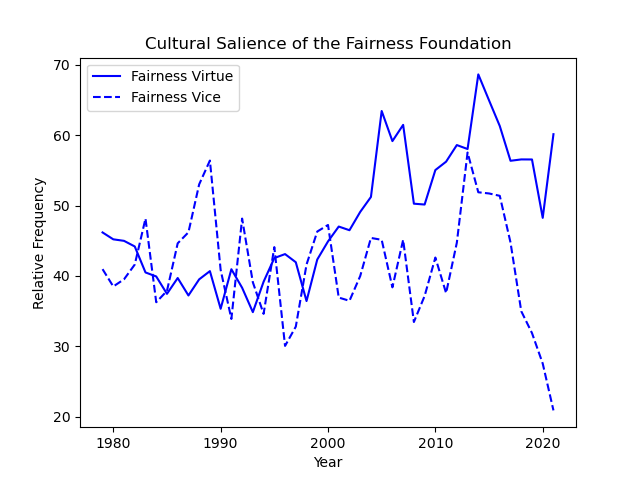
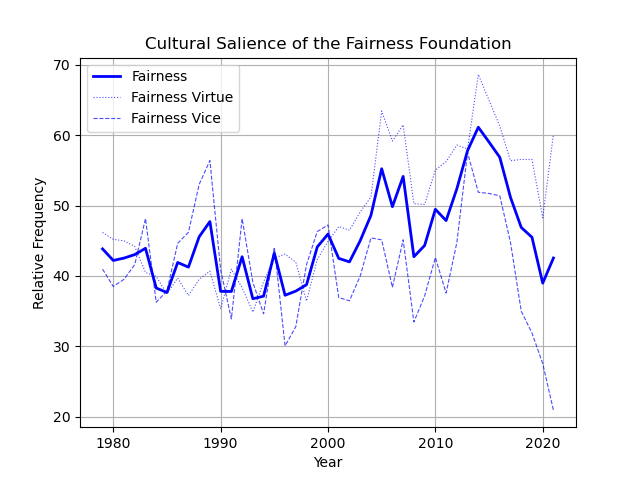
Amended plots for MFD cultural salience

diff --git a/1_code/plot_relativefreq_mfd_virvic.py b/1_code/plot_relativefreq_mfd_virvic.py
@@ -1,7 +1,8 @@
 import pandas as pd
 import matplotlib.pyplot as plt
 
-data = pd.read_csv('/Users/kawaiyuen/nlpworkshop/concept-creep-chi/2_pipeline/tmp/relativefreq_mfd_virvic.csv')
+data_virvic = pd.read_csv('/Users/kawaiyuen/nlpworkshop/concept-creep-chi/2_pipeline/tmp/relativefreq_mfd_virvic.csv')
+data_combined = pd.read_csv('/Users/kawaiyuen/nlpworkshop/concept-creep-chi/2_pipeline/tmp/relativefreq_mfd.csv')
 
 foundations = ['Harm', 'Fairness', 'Ingroup', 'Authority', 'Purity']
 colors = ['red', 'blue', 'green', 'orange', 'purple']
@@ -9,12 +10,14 @@ colors = ['red', 'blue', 'green', 'orange', 'purple']
 for foundation, color in zip(foundations, colors):
     virtue_column = f'{foundation}_virtue'
     vice_column = f'{foundation}_vice'
-    plt.plot(data['Year'], data[virtue_column], color=color, label=f'{foundation} Virtue')
-    plt.plot(data['Year'], data[vice_column], color=color, linestyle='dashed', label=f'{foundation} Vice')
+    plt.plot(data_combined['Year'], data_combined[foundation], color=color, linestyle='solid', linewidth=2, label=foundation)
+    plt.plot(data_virvic['Year'], data_virvic[virtue_column], color=color, linestyle='dotted', linewidth=0.8, alpha=0.7, label=f'{foundation} Virtue')
+    plt.plot(data_virvic['Year'], data_virvic[vice_column], color=color, linestyle='dashed', linewidth=0.8, alpha=0.7, label=f'{foundation} Vice')
     
     plt.xlabel('Year')
     plt.ylabel('Relative Frequency')
     plt.title(f'Cultural Salience of the {foundation} Foundation')
     plt.legend()
+    plt.grid(True)
     plt.savefig(f'/Users/kawaiyuen/nlpworkshop/concept-creep-chi/3_output/relativefreq/relativefreq_{foundation.lower()}_virvic.png')
     plt.close()
